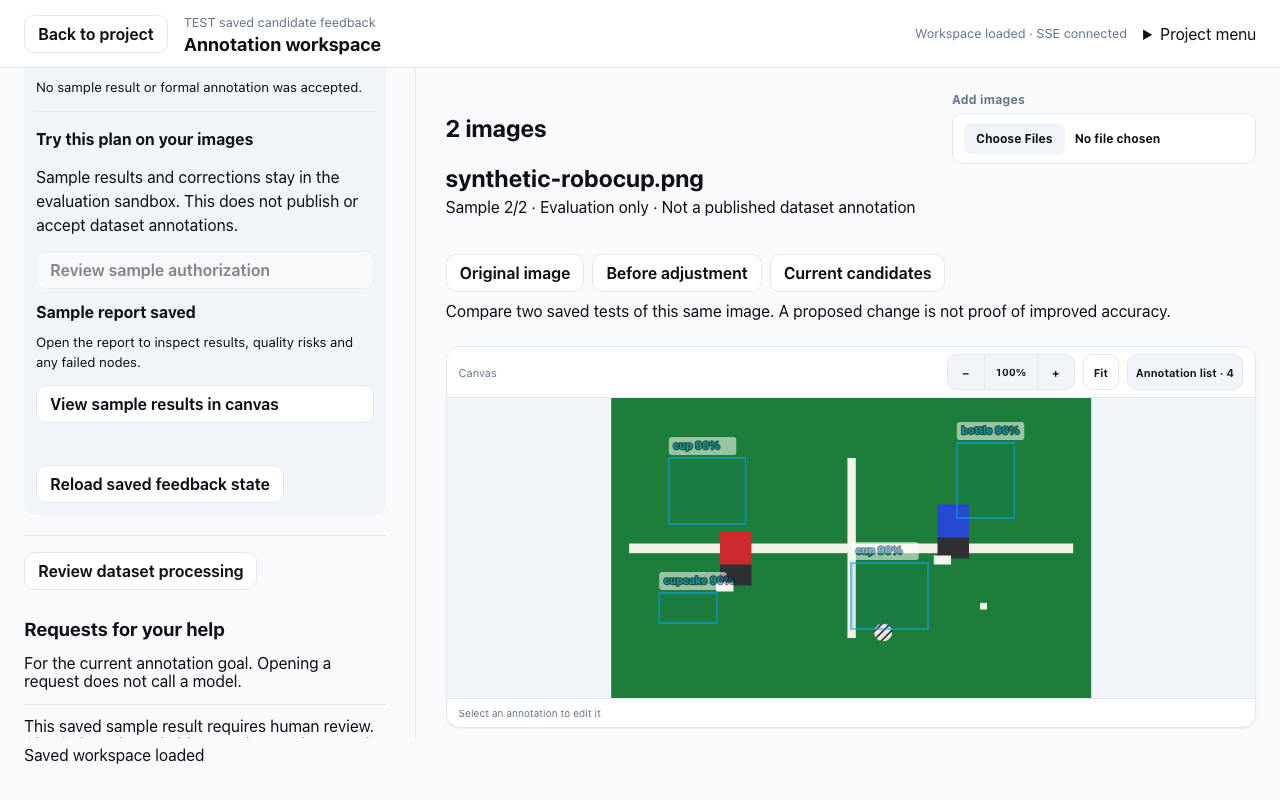
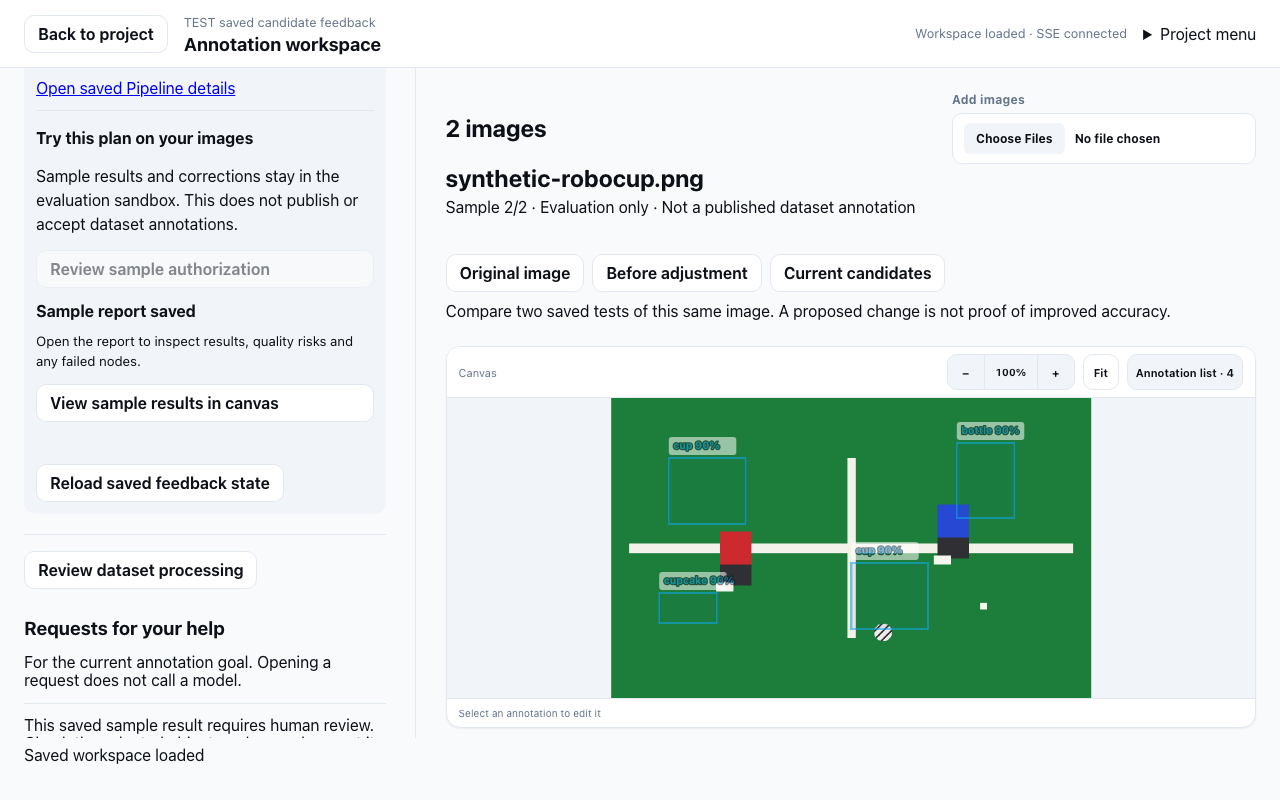
fix(web): preserve builder detail return and retry recovery controls

diff --git a/web/src/components/ConversationBuilderCard.tsx b/web/src/components/ConversationBuilderCard.tsx
@@ -32,16 +32,17 @@ function BuilderCard({ project, conversation, task, schema, editing, onSample, r
   const [uncertain,setUncertain]=useState(false);
   const [cancelled,setCancelled]=useState(false);
   const [error,setError]=useState("");
+  const [invalidRetry,setInvalidRetry]=useState<string>();
   const pending=useRef(false);
   const alive=useRef(true);
   const frozen=useRef<ConversationBuilderConsent | undefined>(undefined);
   const repairContext=imageClassRepair ? {...imageClassRepair,kind:"image_class_review" as const} : repairRequest ? {...repairRequest,kind:"human_request" as const} : undefined;
   const pendingKey=`annotagent.builder-pending:${project}:${conversation}:${task}:${schema.id}:${schema.revision}:${repairContext?.kind ?? "new"}:${repairContext?.id ?? ""}`;
-  const clearPending=()=>{frozen.current=undefined;try{sessionStorage.removeItem(pendingKey);}catch{/* Exact server history remains authoritative. */}};
+  const clearPending=()=>{const hadPending=Boolean(frozen.current);frozen.current=undefined;if(hadPending)try{sessionStorage.removeItem(pendingKey);}catch{/* Exact server history remains authoritative. */}};
   const running=item?.operation.status==="reserved" || Boolean(frozen.current && (busy || uncertain));
   useEffect(()=>{
     alive.current=true; const controller=new AbortController();
-    try{const raw=sessionStorage.getItem(pendingKey);if(raw){const saved=restoreBuilderPending(raw,schema,repairContext);if(saved){frozen.current=saved.consent;setPreview(saved.preview);setConfirmed(true);setUncertain(true);}else setError("The saved Builder retry envelope is invalid. No model request was restored.");}}catch{/* No model request is reconstructed from unreadable browser storage. */}
+    try{const raw=sessionStorage.getItem(pendingKey);if(raw){const saved=restoreBuilderPending(raw,schema,repairContext);if(saved){frozen.current=saved.consent;setPreview(saved.preview);setConfirmed(true);setUncertain(true);}else {setInvalidRetry(raw);setError("The saved Builder retry envelope is invalid. No model request was restored.");}}}catch{/* No model request is reconstructed from unreadable browser storage. */}
     const scope=frozen.current ? {operation_id:frozen.current.selection.operation_id} : historyScope;
     void api.conversationBuilderHistory(project,conversation,task,controller.signal,scope).then(async(history)=>{
       const entry=history.items.find(entry=>matches(entry)&&(!frozen.current||entry.operation.id===frozen.current.selection.operation_id));
@@ -68,7 +69,7 @@ function BuilderCard({ project, conversation, task, schema, editing, onSample, r
     return ()=>{controller.abort();window.clearInterval(timer);};
   },[running,project,conversation,task,item?.operation.id]);
   async function prepare() {
-    if(pending.current || running || editing)return; pending.current=true;setBusy(true);setConfirmed(false);setError("");
+    if(pending.current || running || editing || invalidRetry!==undefined)return; pending.current=true;setBusy(true);setConfirmed(false);setError("");
     try {
       const result=await api.conversationBuilderPreview(project,conversation,task,{operation_id:crypto.randomUUID(),schema_id:schema.id,schema_revision:schema.revision,repair_request_id:repairRequest?.id,image_class_review_id:imageClassRepair?.id});
       if(alive.current){setPreview(result);setConfirmed(false);setCancelled(false);}
@@ -76,7 +77,7 @@ function BuilderCard({ project, conversation, task, schema, editing, onSample, r
     finally {pending.current=false;if(alive.current)setBusy(false);}
   }
   async function launch() {
-    if(pending.current || !preview || !confirmed || editing || (!frozen.current && projectBudgetAvailability(preview.project_call_limit).blocked))return;
+    if(pending.current || !preview || !confirmed || editing || invalidRetry!==undefined || (!frozen.current && projectBudgetAvailability(preview.project_call_limit).blocked))return;
     if(!consentMatchesSchema(preview.selection,schema)){setError("Labels changed. Review a fresh Builder authorization before continuing.");setPreview(undefined);return;}
     pending.current=true;setBusy(true);setError("");setItem(undefined);
     const consent=frozen.current ?? builderConsent(preview);
@@ -112,21 +113,22 @@ function BuilderCard({ project, conversation, task, schema, editing, onSample, r
   const session=item?.session;
   const draftId=item?.operation.evidence?.draft_id ?? session?.working_draft?.draft_id;
   const builtRevision=preview?.selection.schema_revision ?? item?.schema_revision ?? item?.operation.evidence?.schema_revision;
-  const completed=Boolean(draftId && item && builderMatchesSchema(item,schema) && !editing && !running && !preview && !error && !cancelled && !session?.unresolved_bindings?.length && !item?.operation.evidence?.error && item?.operation.status==="completed" && session?.outcome==="draft_ready_for_human_review");
+  const completed=Boolean(draftId && item && builderMatchesSchema(item,schema) && invalidRetry===undefined && !running && !preview && !error && !cancelled && !session?.unresolved_bindings?.length && !item?.operation.evidence?.error && item?.operation.status==="completed" && session?.outcome==="draft_ready_for_human_review");
   const buildDetails=<>
     <h3>{repair ? "Revise the plan from your correction" : "Build the annotation plan"}</h3>
     {repair && <p>Your saved correction is evidence for revising this plan, not proof of improved accuracy. The original plan remains unchanged.</p>}
     <p>{builtRevision ? `This operation uses Schema revision ${builtRevision}.` : `A new build will use saved labels at revision ${schema.revision}.`} This step builds a Draft; it does not test images or publish.</p>
     {builtRevision && builtRevision!==schema.revision && <p role="status">Labels are now revision {schema.revision}; this saved operation has not been rebuilt for those changes.</p>}
-    {!running && !preview && <button disabled={!ready || busy || editing} onClick={()=>void prepare()}>{item ? "Review another build request" : "Review Builder authorization"}</button>}
+    {invalidRetry!==undefined && <aside role="alert"><p>The browser retry record cannot be safely reused. Server operations and costs may still exist; clearing this local record does not cancel them or authorize new calls.</p><button disabled={busy||running} onClick={()=>{try{if(sessionStorage.getItem(pendingKey)!==invalidRetry)throw new Error("The local retry record changed. Reload before clearing it.");sessionStorage.removeItem(pendingKey);setInvalidRetry(undefined);setError("");}catch(reason){setError((reason as Error).message);}}}>Discard unreadable local Builder retry record</button></aside>}
+    {!running && !preview && <button disabled={!ready || busy || editing || invalidRetry!==undefined} onClick={()=>void prepare()}>{item ? "Review another build request" : "Review Builder authorization"}</button>}
     {preview && !running && <div className="conversation-consent" aria-label="Builder model authorization"><ConversationBudgetNotice value={preview.project_call_limit} maximumCalls={preview.maximum_builder_calls} busy={busy} onRefresh={()=>void prepare()}/><strong>{preview.model_name}</strong><span>{preview.remote_model} · {preview.destination}</span><p>{preview.data_scope}</p><p>Up to {preview.maximum_builder_calls} text calls · {preview.used_calls} calls already used · Cumulative limit {preview.maximum_calls} · Cost unknown</p><p>{preview.operation}</p><label><input type="checkbox" checked={confirmed} disabled={busy} onChange={(event)=>setConfirmed(event.target.checked)} />Allow this bounded Builder request; actual cost is unknown</label><div className="button-row"><button disabled={busy} onClick={()=>setPreview(undefined)}>Back</button><button className="primary" disabled={!confirmed || busy || editing || projectBudgetAvailability(preview.project_call_limit).blocked} onClick={()=>void launch()}>Build Pipeline Draft</button></div></div>}
     {running && <><p role="status">{session?.phase ? `Builder stage: ${session.phase.replaceAll("_"," ")}` : "Submitting or restoring the saved Builder operation…"}</p>{session?.next_action && <p>{session.next_action}</p>}<button onClick={()=>void stop()}>Stop Builder</button><small>Leaving this page does not stop the server task. No images are being tested.</small></>}
     {cancelled && <p role="status">{running ? "Cancellation saved. Waiting for the server to settle any in-flight call; its cost may be unknown." : "Cancellation saved. The operation has stopped; any prior call cost remains recorded separately."}</p>}
     {uncertain && !busy && <button onClick={()=>void launch()} disabled={cancelled}>Retry the same Builder request</button>}
-    {item && item.operation.status!=="reserved" && <div className="conversation-builder-result"><strong>{item.operation.status==="interrupted" ? "Build interrupted" : completed ? "Saved execution record" : "Builder outcome saved"}</strong><p>{session?.outcome?.replaceAll("_"," ") ?? item.operation.evidence?.outcome?.replaceAll("_"," ") ?? item.operation.status}</p>{item.operation.evidence?.error && <p>{item.operation.evidence.error}</p>}{session?.next_action && <p>{session.next_action}</p>}{session?.unresolved_bindings?.length ? <ul>{session.unresolved_bindings.map((binding,index)=><li key={index}>{binding}</li>)}</ul> : null}{draftId && <a href={projectBuildPath(project,"pipeline",{draftId,agentSessionId:session?.id})}>Open saved Pipeline details</a>}<small>No sample result or formal annotation was accepted.</small></div>}
+    {item && item.operation.status!=="reserved" && <div className="conversation-builder-result"><strong>{item.operation.status==="interrupted" ? "Build interrupted" : completed ? "Saved execution record" : "Builder outcome saved"}</strong><p>{session?.outcome?.replaceAll("_"," ") ?? item.operation.evidence?.outcome?.replaceAll("_"," ") ?? item.operation.status}</p>{item.operation.evidence?.error && <p>{item.operation.evidence.error}</p>}{session?.next_action && <p>{session.next_action}</p>}{session?.unresolved_bindings?.length ? <ul>{session.unresolved_bindings.map((binding,index)=><li key={index}>{binding}</li>)}</ul> : null}<small>No sample result or formal annotation was accepted.</small></div>}
     {error && <p role="alert">{error} Saved operations remain on the server; refreshing will not start another build.</p>}
   </>;
-  if(!repair&&!advanced)return <>
+  if(!repair&&!advanced&&invalidRetry===undefined)return <>
     <ConversationJourneyCard key={`${project}:${conversation}:${task}`} project={project} conversation={conversation} task={task} schema={schema} disabled={editing||running} onSample={onSample} onAssistance={onAssistance} onActiveChange={setJourneyActive}/>
     <button disabled={!ready||busy||editing||running||journeyActive} onClick={()=>{setAdvanced(true);void prepare();}}>Review Builder authorization</button>
     <small>Advanced: build only, then authorize samples separately.</small>
@@ -134,6 +136,7 @@ function BuilderCard({ project, conversation, task, schema, editing, onSample, r
   return <section className="conversation-builder-card" aria-label={repair ? "Repair annotation pipeline" : "Build annotation pipeline"}>
     {!repair&&!running&&!busy&&<button onClick={()=>setAdvanced(false)}>Back to build and sample task</button>}
     {completed ? <details className="conversation-completed-stage"><summary><strong>Builder outcome saved</strong><span>View build details</span></summary><div>{buildDetails}</div></details> : buildDetails}
+    {draftId && !running && <a href={projectBuildPath(project,"pipeline",{draftId,agentSessionId:session?.id,workspaceReturn:window.location.pathname+window.location.search})}>Open saved Pipeline details</a>}
     {draftId && !running && <ConversationSampleCard key={`${task}:${draftId}`} project={project} conversation={conversation} task={task} draft={draftId} disabled={editing || busy} onOpen={onSample} onAssistance={onAssistance} />}
   </section>;
 }

diff --git a/web/e2e/conversation-image-class.spec.ts b/web/e2e/conversation-image-class.spec.ts
@@ -88,8 +88,9 @@ async function imageClassSample(request: APIRequestContext, page: Page, bbox: bo
 type State = Awaited<ReturnType<typeof imageClassSample>>;
 
 for (const bbox of [true,false]) {
-for (const lostAck of [false,true]) {
-test(`image class repair continues in chat with separate Builder and sample consent: ${bbox ? "bbox" : "classification"}${lostAck ? " after unknown acknowledgement" : ""}`, async ({page,request})=>{
+for (const transport of ["normal","lost_ack","storage_blocked","storage_corrupt"]) {
+const lostAck=transport==="lost_ack";
+test(`image class repair continues in chat with separate Builder and sample consent: ${bbox ? "bbox" : "classification"} ${transport}`, async ({page,request})=>{
   test.setTimeout(240_000);
   const state=await imageClassSample(request,page,bbox), group=await openGroup(request,state);
   await post(request,`${group.endpoint}/answer`,{command_id:randomUUID(),expected_scope_digest:group.review.scope_digest,actions:group.review.scope.members.map((member:any)=>({action:"keep",outcome_id:member.outcome.id,source_artifact_id:member.source_artifact_id}))});
@@ -102,6 +103,22 @@ test(`image class repair continues in chat with separate Builder and sample cons
   await page.reload();
   await expect(card.getByRole("button",{name:"Review Builder authorization",exact:true})).toBeVisible();
   expect(await read(request,`${state.taskRoot}/calls`)).toEqual(callsBefore);
+  if(transport==="storage_corrupt"){
+    const original=await read(request,`/api/workflow-drafts/${state.record.draft_id}/sample-test?test_id=${state.record.id}`);
+    const schema=original.annotation_schema;
+    const key=`annotagent.builder-pending:${state.project}:${state.conversation}:${state.task}:${schema.schema_draft_id}:${schema.revision}:image_class_review:${group.review.id}`;
+    await page.evaluate(key=>sessionStorage.setItem(key,"{TEST damaged envelope"),key);
+    await page.reload();
+    await expect(card.getByRole("button",{name:"Review Builder authorization",exact:true})).toBeDisabled();
+    await card.getByRole("button",{name:"Discard unreadable local Builder retry record",exact:true}).click();
+    expect(await read(request,`${state.taskRoot}/calls`)).toEqual(callsBefore);
+    await expect(card.getByRole("button",{name:"Review Builder authorization",exact:true})).toBeEnabled();
+  }
+  if(transport==="storage_blocked")await page.evaluate(()=>{
+    const original=Storage.prototype.setItem;
+    Storage.prototype.setItem=function(key,value){if(key.startsWith("annotagent.builder-pending:"))throw new DOMException("TEST browser storage unavailable","QuotaExceededError");return original.call(this,key,value);};
+    (window as unknown as {restoreTestBuilderStorage:()=>void}).restoreTestBuilderStorage=()=>{Storage.prototype.setItem=original;};
+  });
   await card.getByRole("button",{name:"Review Builder authorization",exact:true}).click();
   await card.getByRole("checkbox",{name:"Allow this bounded Builder request; actual cost is unknown"}).check();
   let blockedReads=false, builderPosts=0;
@@ -116,6 +133,13 @@ test(`image class repair continues in chat with separate Builder and sample cons
     else await route.continue();
   });
   await card.getByRole("button",{name:"Build Pipeline Draft",exact:true}).click();
+  if(transport==="storage_blocked"){
+    await expect(card.getByRole("alert")).toContainText("No model call was started");
+    expect(await read(request,`${state.taskRoot}/calls`)).toEqual(callsBefore);
+    expect((await read(request,`${state.taskRoot}/builder-operations?image_class_review_id=${group.review.id}`)).items).toHaveLength(0);
+    await page.evaluate(()=>(window as unknown as {restoreTestBuilderStorage:()=>void}).restoreTestBuilderStorage());
+    await card.getByRole("button",{name:"Build Pipeline Draft",exact:true}).click();
+  }
   if(lostAck){
     await expect(card.getByRole("button",{name:"Retry the same Builder request",exact:true})).toBeVisible();
     expect(await page.evaluate(()=>Object.keys(sessionStorage).some(key=>key.startsWith("annotagent.builder-pending:")))).toBe(true);
@@ -143,7 +167,17 @@ test(`image class repair continues in chat with separate Builder and sample cons
   await page.reload();await expect(page).toHaveURL(url);
   await expect(card.getByRole("button",{name:"View sample results in canvas",exact:true})).toBeVisible();
   expect(await read(request,`${state.taskRoot}/calls`)).toEqual(settledCalls);
-  if(!lostAck){await card.getByRole("button",{name:"View sample results in canvas",exact:true}).scrollIntoViewIfNeeded();await page.screenshot({path:resolve(`../docs/execution/conversational-workspace/image-class-builder-${bbox ? "continuation" : "classification"}.png`),fullPage:true});}
+  const detailsLink=card.getByRole("link",{name:"Open saved Pipeline details",exact:true});
+  await expect(detailsLink).toBeVisible();
+  await detailsLink.click();
+  await expect(page.getByRole("button",{name:"Back to annotation workspace",exact:true})).toBeVisible();
+  await expect(page).toHaveURL(/workspace_return=/);
+  await page.reload();
+  await page.getByRole("button",{name:"Back to annotation workspace",exact:true}).click();
+  await expect(page).toHaveURL(url);
+  await expect(card.getByRole("button",{name:"View sample results in canvas",exact:true})).toBeVisible();
+  expect(await read(request,`${state.taskRoot}/calls`)).toEqual(settledCalls);
+  if(transport==="normal"){await card.getByRole("button",{name:"View sample results in canvas",exact:true}).scrollIntoViewIfNeeded();await page.screenshot({path:resolve(`../docs/execution/conversational-workspace/image-class-builder-${bbox ? "continuation" : "classification"}.png`),fullPage:true});}
   else {await page.setViewportSize({width:390,height:844});await card.getByRole("button",{name:"View sample results in canvas",exact:true}).scrollIntoViewIfNeeded();await expect(card.getByRole("button",{name:"View sample results in canvas",exact:true})).toBeVisible();await expect(page).toHaveURL(url);expect(await page.evaluate(()=>document.documentElement.scrollWidth<=window.innerWidth+1)).toBe(true);}
 });
 }

diff --git a/web/src/navigation.ts b/web/src/navigation.ts
@@ -163,12 +163,14 @@ export function conversationReturn(projectId: string, value?: string | null): st
   return route.kind === "conversation" && route.projectId === projectId ? route.canonicalPath : undefined;
 }
 
-function imageClassReviewReturn(projectId: string, value?: string | null): string | undefined {
+function pipelineWorkspaceReturn(projectId: string, value?: string | null): string | undefined {
   const canonical = conversationReturn(projectId, value);
   if (!canonical) return undefined;
   const [pathname, search] = canonical.split("?");
   const route = parseWorkspaceRoute(pathname, search ? `?${search}` : "");
-  return route.kind === "conversation" && route.classReviewId && route.conversationId && route.taskId && route.draftId && route.sampleTestId && route.imageId ? canonical : undefined;
+  if(route.kind!=="conversation" || !route.conversationId || !route.taskId)return undefined;
+  if(route.classReviewId && (!route.draftId || !route.sampleTestId || !route.imageId))return undefined;
+  return canonical;
 }
 
 export function withConversationReturn(path: string, returnPath?: string): string {
@@ -207,7 +209,7 @@ export function projectBuildPath(
   if (step === "test" && context.sampleTestId)
     params.set("test", context.sampleTestId);
   if (step === "test" && context.imageId) params.set("image", context.imageId);
-  const workspaceReturn = step === "pipeline" ? imageClassReviewReturn(projectId, context.workspaceReturn) : undefined;
+  const workspaceReturn = step === "pipeline" ? pipelineWorkspaceReturn(projectId, context.workspaceReturn) : undefined;
   if (workspaceReturn) params.set("workspace_return", workspaceReturn);
   const suffix = params.size ? `?${canonicalSearch(params)}` : "";
   return `/projects/${encodeURIComponent(projectId)}/build/${step}${suffix}`;
@@ -529,7 +531,7 @@ export function parseWorkspaceRoute(
     const improvementSessionId = step === "pipeline" ? params.get("improvement") ?? undefined : undefined;
     const sampleTestId = step === "test" ? params.get("test") ?? undefined : undefined;
     const imageId = step === "test" ? params.get("image") ?? undefined : undefined;
-    const workspaceReturn = step === "pipeline" ? imageClassReviewReturn(projectId, params.get("workspace_return")) : undefined;
+    const workspaceReturn = step === "pipeline" ? pipelineWorkspaceReturn(projectId, params.get("workspace_return")) : undefined;
     const canonicalPath = projectBuildPath(projectId, step, {
       draftId,
       workflowId,

diff --git a/web/src/navigation.test.ts b/web/src/navigation.test.ts
@@ -13,6 +13,18 @@ import {
 } from "./navigation";
 
 describe("guided workspace routing", () => {
+  it("preserves a task-bound sample return from Pipeline details without accepting external or foreign routes",()=>{
+    const context={conversationId:"conversation",taskId:"task",draftId:"sample-draft",sampleTestId:"sample",imageId:"image"};
+    const workspaceReturn=projectWorkPath("project",context);
+    const path=projectBuildPath("project","pipeline",{draftId:"repair",agentSessionId:"builder",workspaceReturn});
+    const url=new URL(path,"http://localhost");
+    expect(parseWorkspaceRoute(url.pathname,url.search)).toMatchObject({kind:"build",draftId:"repair",agentSessionId:"builder",workspaceReturn,canonicalPath:path});
+    const restored=new URL(workspaceReturn,"http://localhost");
+    expect(parseWorkspaceRoute(restored.pathname,restored.search)).toMatchObject({kind:"conversation",...context});
+    for(const bad of ["https://outside.invalid", "//outside.invalid/projects/project/work",projectWorkPath("foreign",context),projectWorkPath("project",{conversationId:"conversation"}),workspaceReturn+"#fragment",projectWorkPath("project",{conversationId:"conversation",taskId:"task",classReviewId:"class"})]) {
+      expect(projectBuildPath("project","pipeline",{draftId:"repair",workspaceReturn:bad})).not.toContain("workspace_return");
+    }
+  });
   it("retains a bounded same-project class-review return only on the Pipeline inspector",()=>{
     const workspaceReturn=projectWorkPath("project",{conversationId:"conversation",taskId:"task",classReviewId:"class",draftId:"source",sampleTestId:"test",imageId:"image"});
     const path=projectBuildPath("project","pipeline",{draftId:"revision",workspaceReturn});

diff --git a/web/src/App.tsx b/web/src/App.tsx
@@ -728,7 +728,7 @@ export function App() {
             onError={setError}
           />
         )}
-        {loaded && route.kind === "build" && route.step === "pipeline" && route.workspaceReturn && <section className="conversation-consent conversation-setup-return" aria-label={t("Return to image-class review")}><p>{t("This revision Draft is separate from the saved sample. Returning does not run a model or apply the Draft.")}</p><button onClick={() => navigate(route.workspaceReturn!)}>{t("Return to image-class review")}</button></section>}
+        {loaded && route.kind === "build" && route.step === "pipeline" && route.workspaceReturn && <section className="conversation-consent conversation-setup-return" aria-label={t(route.workspaceReturn.includes("class_review=") ? "Return to image-class review" : "Back to annotation workspace")}><p>{t("This revision Draft is separate from the saved sample. Returning does not run a model or apply the Draft.")}</p><button onClick={() => navigate(route.workspaceReturn!)}>{t(route.workspaceReturn.includes("class_review=") ? "Return to image-class review" : "Back to annotation workspace")}</button></section>}
         {loaded && route.kind === "build" && route.step === "pipeline" && (
           <WorkflowsPage
             projects={projects}

diff --git a/docs/execution/CONVERSATIONAL_WORKSPACE_STATUS.md b/docs/execution/CONVERSATIONAL_WORKSPACE_STATUS.md
@@ -3839,3 +3839,50 @@ browser recovery, source changes during authorization, and broader single-reques
 long-history performance and accessibility coverage. No real-user usability study was run.
 Rust source is unchanged from `b41a339`; its preceding Rust regression is not reported as a new
 run here. No push; main branch and the user's historical screenshot modifications are retained.
+
+### Pipeline detail return and browser retry-storage failures
+
+The chat continuation checkpoint was committed as `8e0b67a`. The Pipeline inspector now accepts
+a validated same-project conversation return with conversation/task IDs, preserving the selected
+sample, image and other canonical query context. Existing class-review returns still require their
+complete class/sample/image context. External URLs, foreign Projects, fragments and incomplete
+task contexts are rejected; unrelated management destination allowlists are unchanged. The
+Builder detail link supplies the current canonical workspace location. The inspector retains
+the appropriate visible return action across refresh without authorizing model work.
+
+The first expanded browser run `/tmp/annotagent-guided-e2e-83714` passed three cases but exposed
+a genuine classification UI race: the detail link was visible, then detached and hidden when
+the pending-human-request read changed `editing`, causing the completed Builder section to
+collapse. The test timed out rather than reaching the inspector. Failure screenshot/context/
+trace were copied to `/tmp/annotagent-builder-return-race-dEB9s3` before rerunning. The fix removes
+editing readiness from the historical Builder completion decision and keeps its detail link
+outside the collapsible evidence section. Tests do not add sleeps or force-click hidden links.
+
+Unreadable local retry envelopes now prevent new Builder authorization until the user explicitly
+discards that exact local record. The warning states that server operations/costs may remain;
+discard neither cancels them nor authorizes a call. If another value replaced the local record,
+discard refuses it. Clearing a recovered valid pending request never silently removes a corrupt
+record. Browser-storage write failure remains a pre-dispatch failure, with a visible explanation
+and explicit retry after storage is restored.
+
+The expanded browser matrix covers bounding boxes and classification under normal transport,
+lost acknowledgements, rejected session-storage writes and corrupted pending records. Every
+path then inspects the saved Pipeline, refreshes its detail URL, and returns to exactly the prior
+conversation/sample/image without increasing call count. Final results are recorded below.
+
+Final `/tmp/annotagent-guided-e2e-84080` run passed **8/8 cases** in 1.3 minutes. Each corrupt-
+record case proves the authorization button is disabled before explicit local discard, while
+each storage-write rejection proves no Builder receipt and no extra call were admitted. All
+cases complete the separate authorized Builder/sample flow and Pipeline detail refresh/return.
+There was no force-click or blind re-dispatch. The same two owned continuation screenshots
+were refreshed; the classification capture was visually inspected after the passing run.
+Web typecheck and all **198 unit tests in 41 files** pass; production build passes in the E2E
+harness with the existing bundle-size warning. Both isolated listeners stopped after completion.
+Rust source was unchanged, so no new Rust regression is claimed here. No Live or real-human
+usability test, native Chinese IME or native 200% zoom test was performed.
+
+Remaining objective work includes the broader original single-request continuation regression,
+authorization/source changes in flight, long-history behavior/performance and the full
+accessibility/requirement audit. This commit does not claim completion of the overall goal.
+Only this slice's source, tests, log and two owned screenshot updates are included. Historical
+unrelated PNG changes remain excluded; no push or remote/workspace/service8787 changes.
